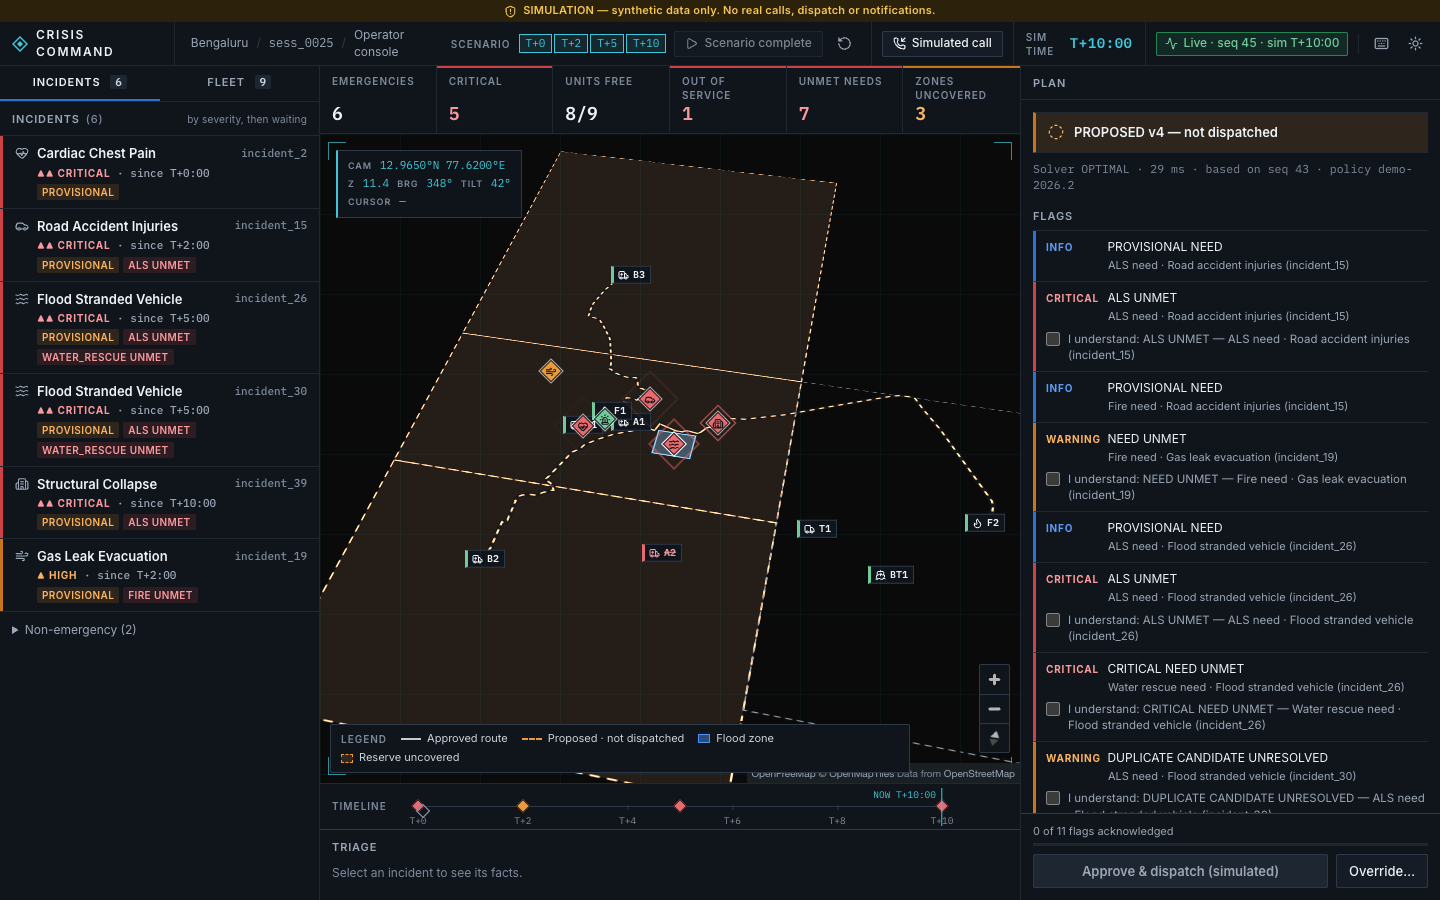
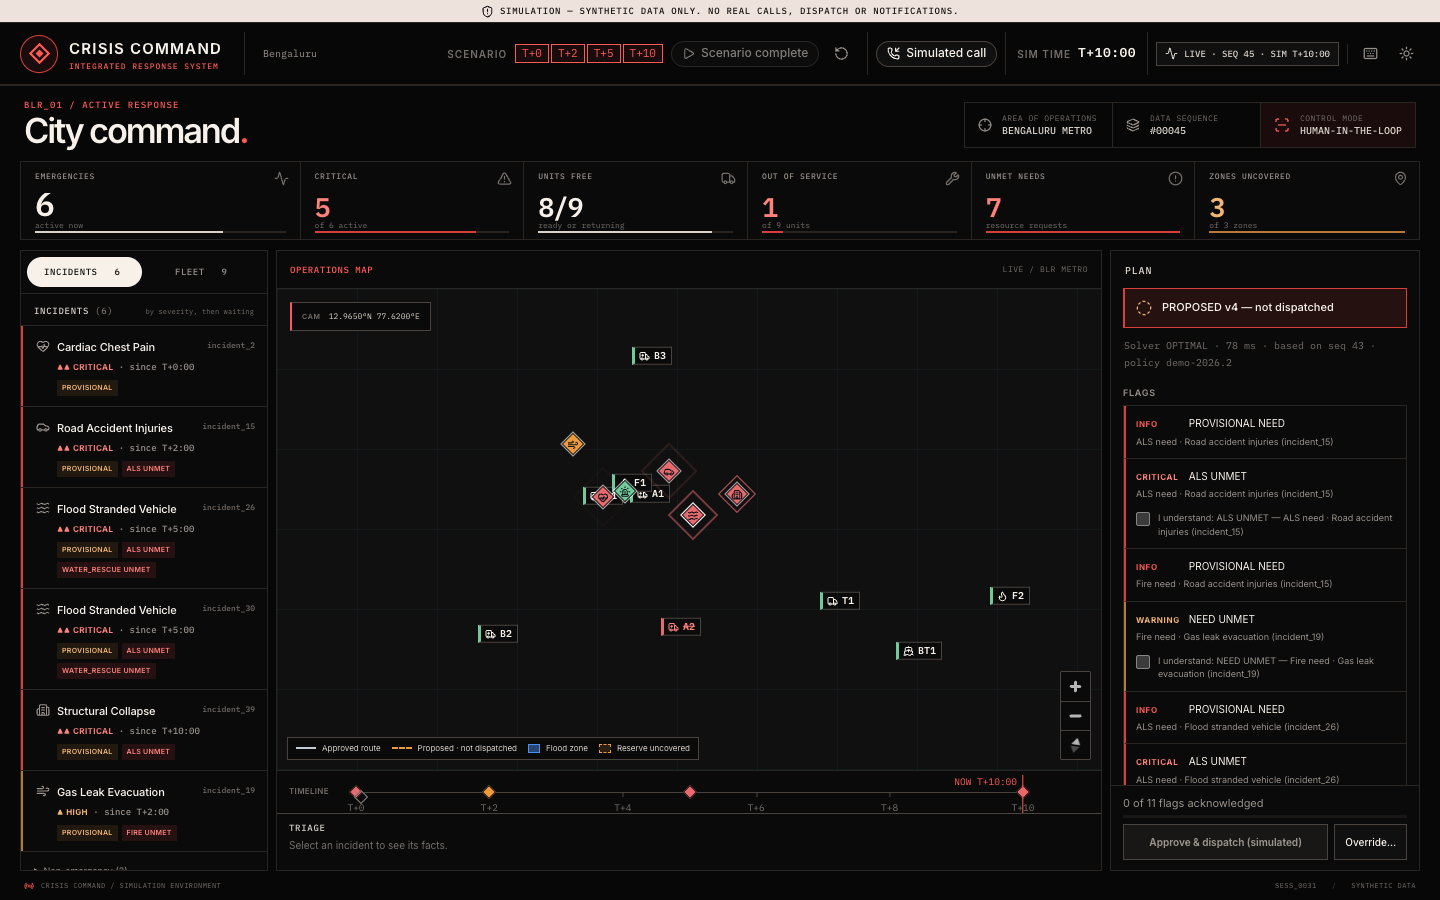
Release: adopt Codex's City command UI (#29); E2E reads textContent

diff --git a/docs/handoffs/RELEASE-combined.md b/docs/handoffs/RELEASE-combined.md
@@ -1,6 +1,6 @@
 # Combined release branch
 
-`claude/release-combined` holds every task branch, CC-01 to CC-14, in one line of history. It is the same code as the PR stack #15 → #34. It keeps the original operator UI (navy and teal, MapLibre GL). The alternative restyles, Codex's #29 and Claude's #31, are left out by the user's choice and remain open for reference.
+`claude/release-combined` holds every task branch, CC-01 to CC-14, in one line of history. It is the same code as the PR stack #15 → #34. The UI is Codex's black-and-red "City command" console from #29, `codex/console-command-center` at `8c8b212`, merged at the user's request. Claude's restyle (#31) is not included.
 
 ## Verified on this branch (2026-10-01)
 
@@ -16,7 +16,7 @@
 | Benchmark smoke | pass |
 | Frontend lint, typecheck and build | pass |
 | Frontend tests | 53 passed |
-| Live console end-to-end run | 17/17 (`docs/screenshots/release/`) |
+| Live console end-to-end run | 17/17 (`docs/screenshots/release/`); the test now reads text content, so CSS capitalisation of labels cannot break checks |
 
 ## Open
 
